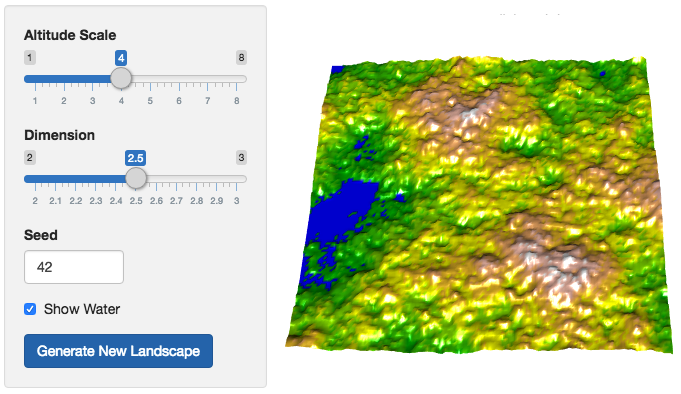
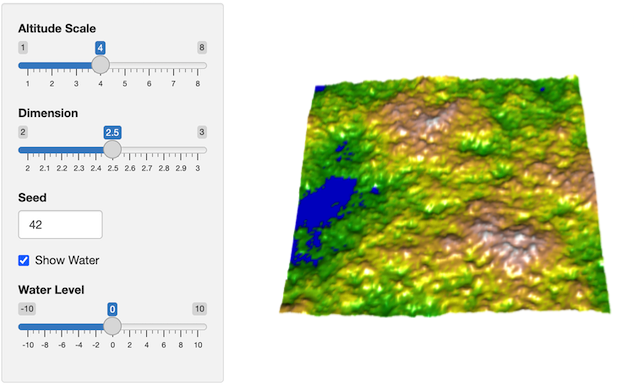
Update screenshot and copyright

diff --git a/LICENSE.md b/LICENSE.md
@@ -1,6 +1,6 @@
 The MIT License (MIT)
 
-Copyright (c) 2016-2020 svengato
+Copyright (c) 2016-2025 svengato
 
 Permission is hereby granted, free of charge, to any person obtaining a copy
 of this software and associated documentation files (the "Software"), to deal
